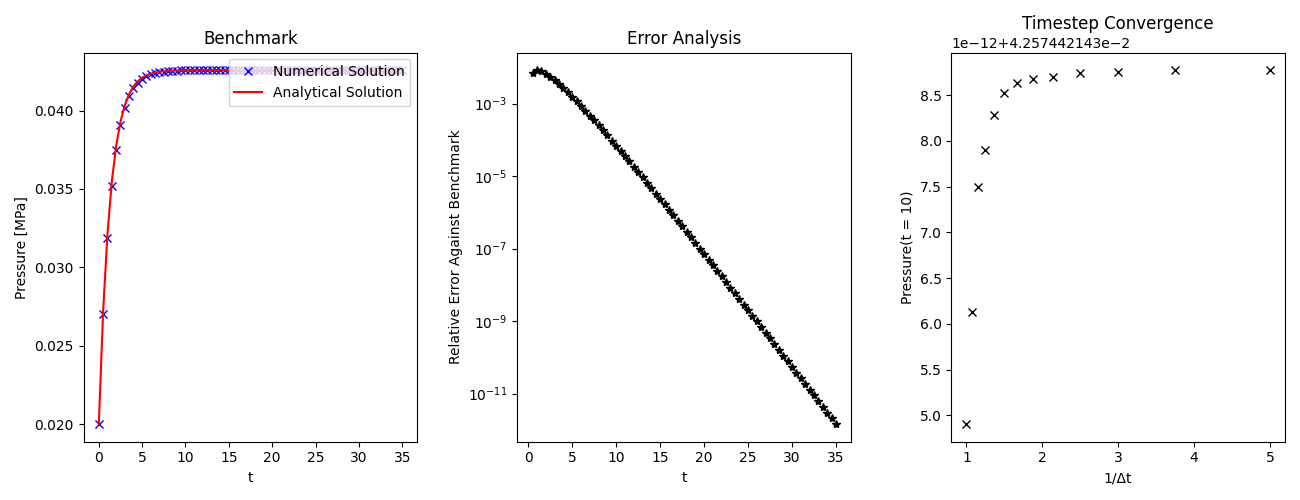
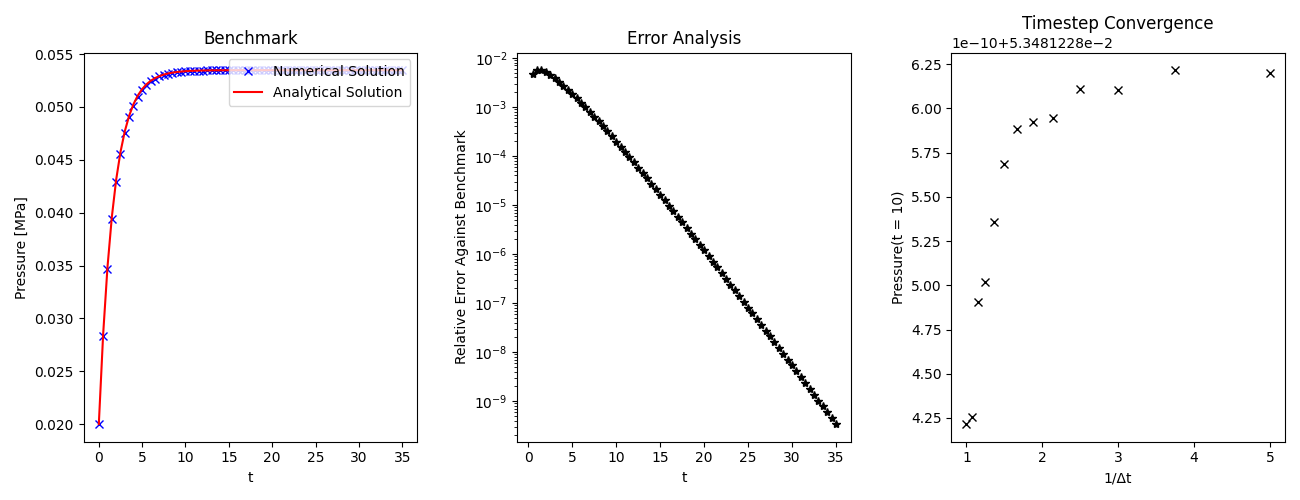
Updated theoretical calcultations to Sam's working

diff --git a/ethan_stinky_model_attempt2.py b/ethan_stinky_model_attempt2.py
@@ -14,16 +14,16 @@ from sklearn.linear_model import BayesianRidge
 # Finding estimates using physics:
 g = 9.81  # m/s^2
 porosity = 0.0175  # of concrete? percentage %1.75
-viscosity = 0.89  # 0.89MPa/s
+viscosity = 1.0016 * 10 ** (-3)  # 0.89MPa/s
 density = 997  # of water in kg/m^3
 # k is permeability
-k = 1.257 * (10 ** -6)  # of air? H.m^-1
+k = 0.1 # 1.257 * (10 ** -6)  # of air? H.m^-1
 
-area = g / (0.0008703704260405302 * porosity)
-a = g / (area * porosity)
+area = 40000 # g / (0.0008703704260405302 * porosity)
+a = 9.81 * 10 ** (-4) #g / (area * porosity)
 
 length = (0.8080259027586483 / 0.0008703704260405302) * (viscosity / (k * density * area))
-b = a * (k * density * area) / (viscosity * length)
+b = 0.586 # a * (k * density * area) / (viscosity * length)
 c = -6*(10**-5)
 
 A_GUESS = a;
